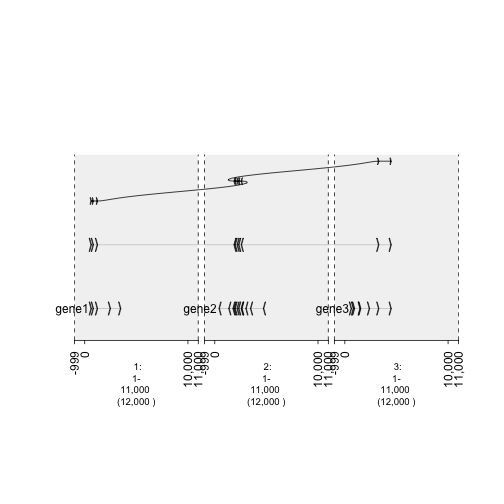
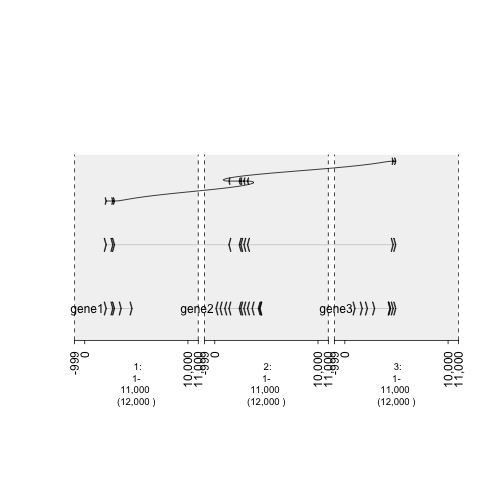
edit hotspots

diff --git a/rtdocs/vignetteHotspots/vignetteHotspots.rst b/rtdocs/vignetteHotspots/vignetteHotspots.rst
@@ -15,50 +15,9 @@ To prepare a data set that illustrates the draw.paths parameter, a GRangesList s
     
 
     gene1 = sort(sample(gUtils::gr.tile(gUtils::parse.gr('1:1-5e3+'), 50), 5))
-
-
-::
-
-    ## Warning in hg_seqlengths(): hg_seqlengths: supply genome
-    ## seqlengths or set default with env variable DEFAULT_BSGENOME (e.g.
-    ## Sys.setenv(DEFAULT_BSGENOME = "BSgenome.Hsapiens.UCSC.hg19::Hsapiens").
-    ## DEFAULT_BSGENOME can also be set to a path or URL of a tab delimited text
-    ## *.chrom.sizes file
-
-
-.. sourcecode:: r
-    
-
     gene2 = rev(sort(sample(gUtils::gr.tile(gUtils::parse.gr('2:1-5e3-'), 50), 12)))
-
-
-::
-
-    ## Warning in hg_seqlengths(): hg_seqlengths: supply genome
-    ## seqlengths or set default with env variable DEFAULT_BSGENOME (e.g.
-    ## Sys.setenv(DEFAULT_BSGENOME = "BSgenome.Hsapiens.UCSC.hg19::Hsapiens").
-    ## DEFAULT_BSGENOME can also be set to a path or URL of a tab delimited text
-    ## *.chrom.sizes file
-
-
-.. sourcecode:: r
-    
-
     gene3 = sort(sample(gUtils::gr.tile(gUtils::parse.gr('3:1-5e3+'), 50), 8))
-
-
-::
-
-    ## Warning in hg_seqlengths(): hg_seqlengths: supply genome
-    ## seqlengths or set default with env variable DEFAULT_BSGENOME (e.g.
-    ## Sys.setenv(DEFAULT_BSGENOME = "BSgenome.Hsapiens.UCSC.hg19::Hsapiens").
-    ## DEFAULT_BSGENOME can also be set to a path or URL of a tab delimited text
-    ## *.chrom.sizes file
-
-
-.. sourcecode:: r
     
-
     ##Create a column that keeps a counter of the exon number.
     
     gene1$exon = 1:length(gene1)
@@ -69,72 +28,20 @@ To prepare a data set that illustrates the draw.paths parameter, a GRangesList s
     grl = GRangesList(gene1 = gene1, gene2 = gene2, gene3 = gene3)
     
     gt.genes = gTrack(grl)
-
-
-::
-
-    ## Warning in `[<-`(`*tmp*`, null.ix, value = list(<S4 object of class
-    ## structure("GRangesList", package = "GenomicRanges")>)): implicit list
-    ## embedding of S4 objects is deprecated
-
-
-.. sourcecode:: r
     
-
     ## Plot two graphs, one with and one without the draw.paths parameter. 
     fusion = GRangesList(c(grl$gene1[1:3], grl$gene2[5:9], grl$gene3[7:8]))
     gt.fusion = gTrack(fusion, draw.paths = FALSE)
-
-
-::
-
-    ## Warning in `[<-`(`*tmp*`, null.ix, value = list(<S4 object of class
-    ## structure("GRangesList", package = "GenomicRanges")>)): implicit list
-    ## embedding of S4 objects is deprecated
-
-
-.. sourcecode:: r
-    
-
     gt.fusion.o = gTrack(fusion, draw.paths = TRUE)
-
-
-::
-
-    ## Warning in `[<-`(`*tmp*`, null.ix, value = list(<S4 object of class
-    ## structure("GRangesList", package = "GenomicRanges")>)): implicit list
-    ## embedding of S4 objects is deprecated
-
-
-.. sourcecode:: r
     
-
     ## separating the windows for the graph. 
     win = gUtils::parse.gr(c('1:1-1e4', '2:1-1e4', '3:1-1e4'))
-
-
-::
-
-    ## Warning in hg_seqlengths(): hg_seqlengths: supply genome
-    ## seqlengths or set default with env variable DEFAULT_BSGENOME (e.g.
-    ## Sys.setenv(DEFAULT_BSGENOME = "BSgenome.Hsapiens.UCSC.hg19::Hsapiens").
-    ## DEFAULT_BSGENOME can also be set to a path or URL of a tab delimited text
-    ## *.chrom.sizes file
-
 
 
 .. sourcecode:: r
     
 
     plot(c(gt.genes, gt.fusion, gt.fusion.o), win +1e3)
-
-
-::
-
-    ## Warning in `[<-`(`*tmp*`, null.ix, value = list(<S4 object of class
-    ## structure("GRangesList", package = "GenomicRanges")>, : implicit list
-    ## embedding of S4 objects is deprecated
-
 
 .. figure:: figure/-plotList-1.png
     :alt: plot of chunk -plotList
@@ -158,7 +65,7 @@ To illustrate gTrack's functionality in graphing copy number variations(CNVs), a
     hotspots = sample(length(tiles), 5)
     
     ## for each sequence, calculate the shortest distance to one of the hotspots.
-    d = values(distanceToNearest(tiles, tiles[hotspots]))$distance
+    d = pmin(Inf, values(distanceToNearest(tiles, tiles[hotspots]))$distance, na.rm = TRUE)
     ## for sequences near the hotspots, the "prob" will be a higher positive number. It becomes smaller as it moves farther from the hotspot. 
     prob = .05 + exp(-d^2/10000)
 
@@ -168,20 +75,56 @@ To illustrate gTrack's functionality in graphing copy number variations(CNVs), a
 
     ## sample 2000 of the sequences. the one nearer to the hotspots will "probably" be selected.
     mut = sample(tiles, 2000, prob = prob, replace = TRUE) 
+
+
+::
+
+    ## Error in sample.int(length(x), size, replace, prob): incorrect number of probabilities
+
+
+.. sourcecode:: r
     
+
     ## graph with different degrees of stack.gap. The higher numeric supplied to stack.gap helps separate the data, visually. 
     gt.mut0 = gTrack(mut, circle = TRUE, stack.gap = 0, name = "Track 0")
-    gt.mut2 = gTrack(mut, circle = TRUE, stack.gap = 2, name = "Track 2"))
+
+
+::
+
+    ## Error in listify(data, GRanges): object 'mut' not found
+
+
+.. sourcecode:: r
+    
+
+    gt.mut2 = gTrack(mut, circle = TRUE, stack.gap = 2, name = "Track 2")
+
+
+::
+
+    ## Error in listify(data, GRanges): object 'mut' not found
+
+
+.. sourcecode:: r
+    
+
     gt.mut10 = gTrack(mut, circle = TRUE, stack.gap = 10, name = "Track 10")
+
+
+::
+
+    ## Error in listify(data, GRanges): object 'mut' not found
+
+
+.. sourcecode:: r
+    
+
     gt.mut50 = gTrack(mut, circle = TRUE, stack.gap = 50, name = "Track 50")
 
 
 ::
 
-    ## Error: <text>:6:70: unexpected ')'
-    ## 5: gt.mut0 = gTrack(mut, circle = TRUE, stack.gap = 0, name = "Track 0")
-    ## 6: gt.mut2 = gTrack(mut, circle = TRUE, stack.gap = 2, name = "Track 2"))
-    ##                                                                         ^
+    ## Error in listify(data, GRanges): object 'mut' not found
 
 
 
